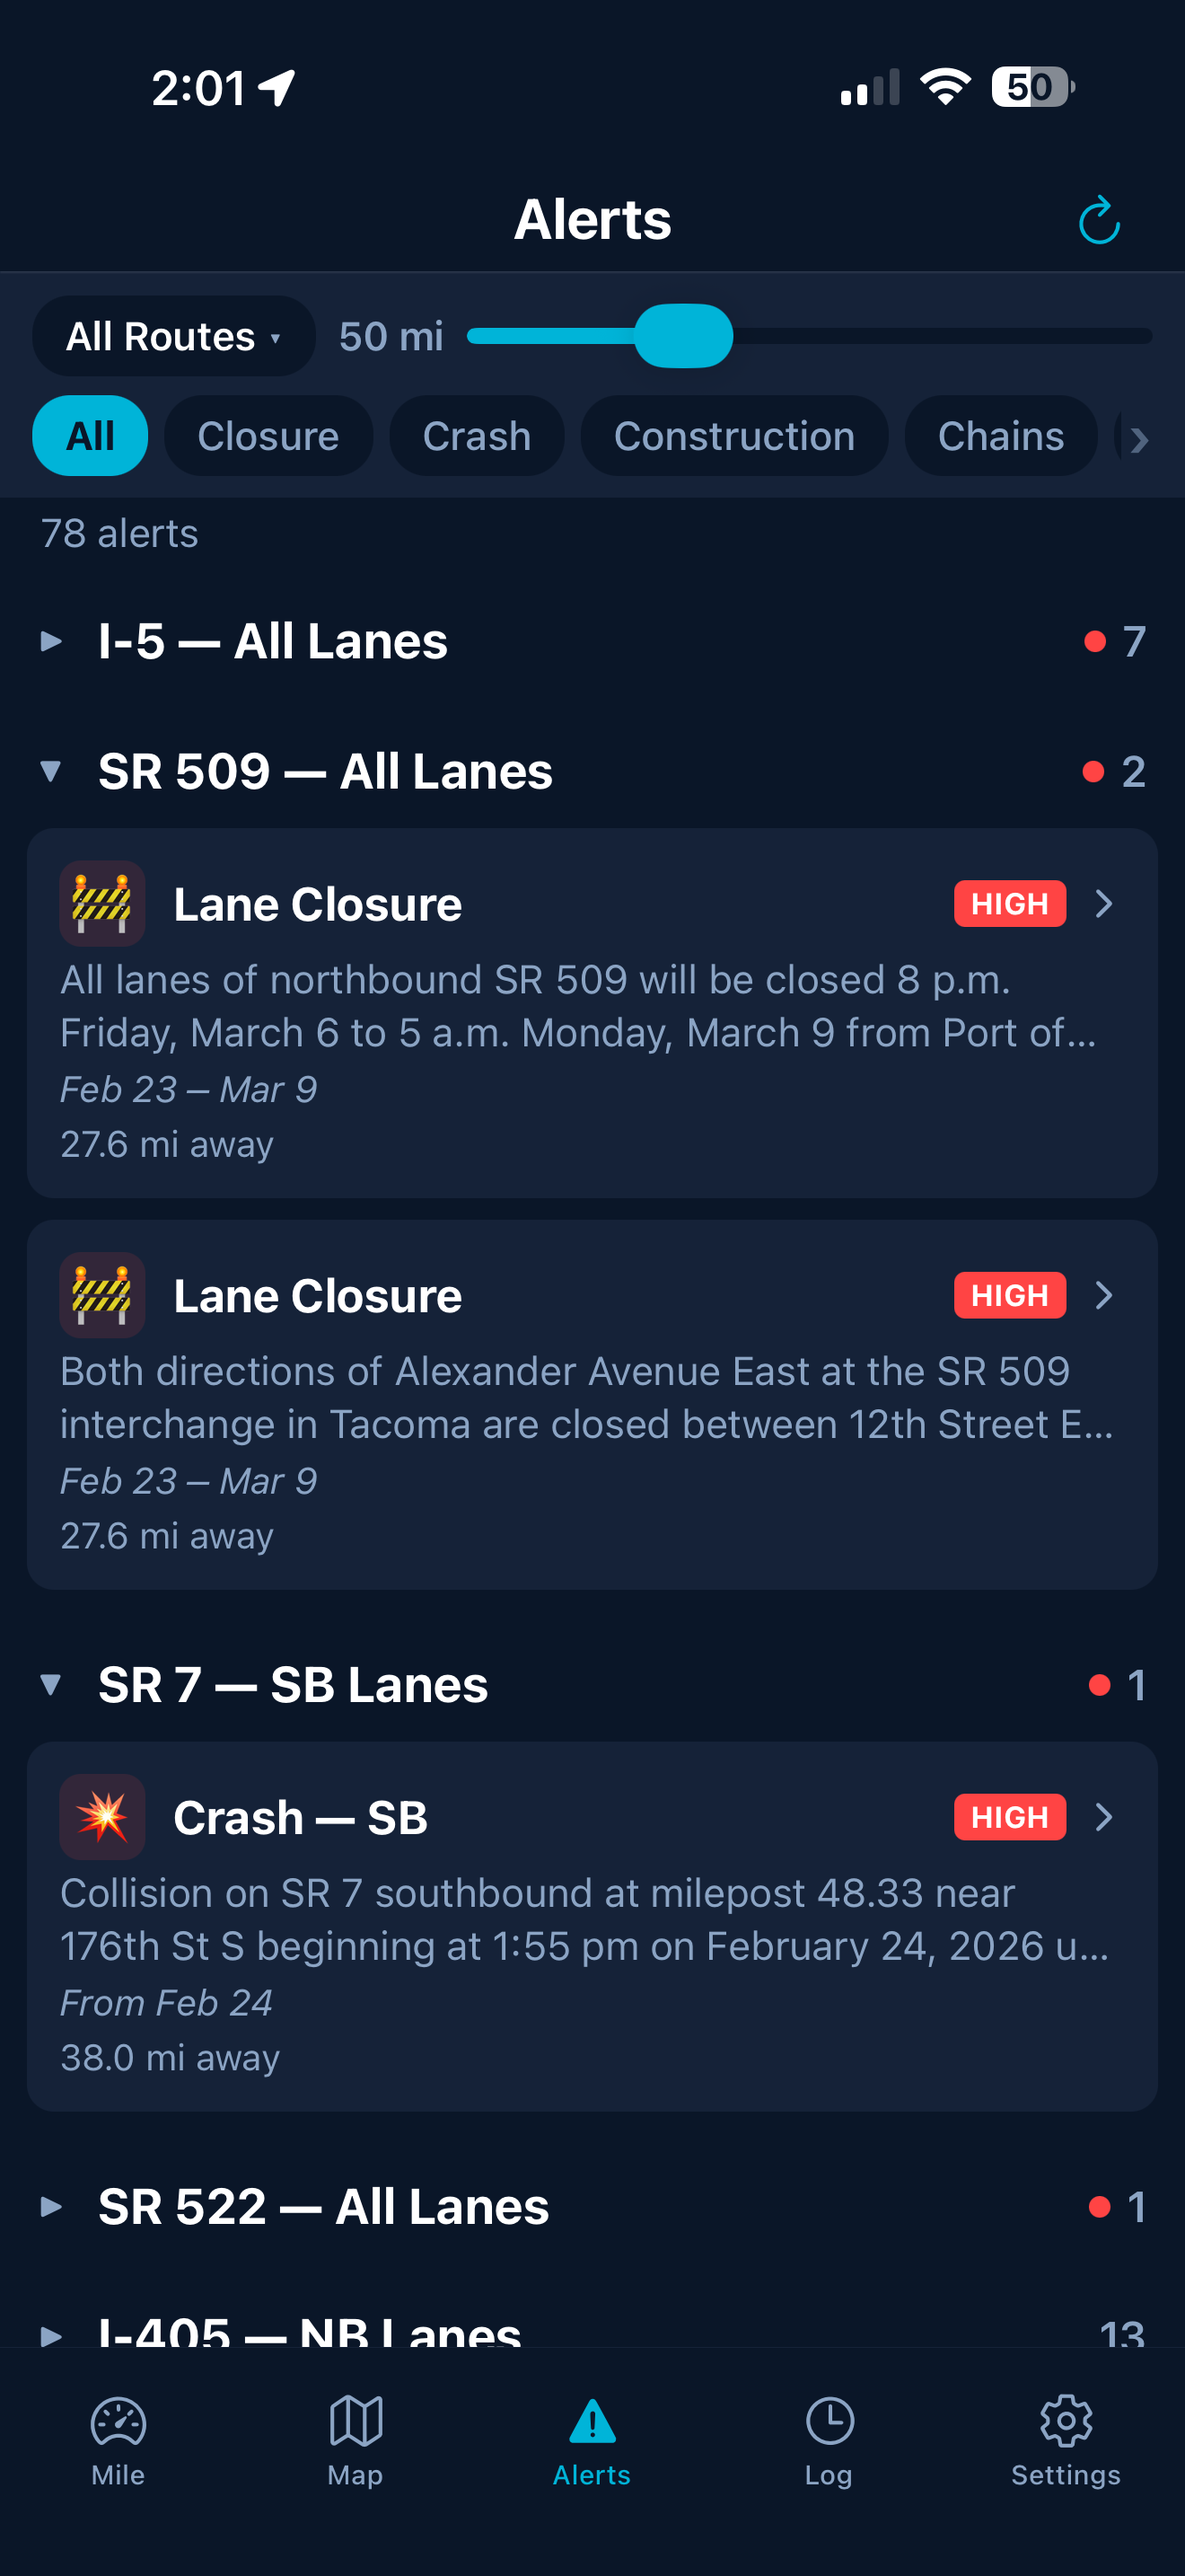
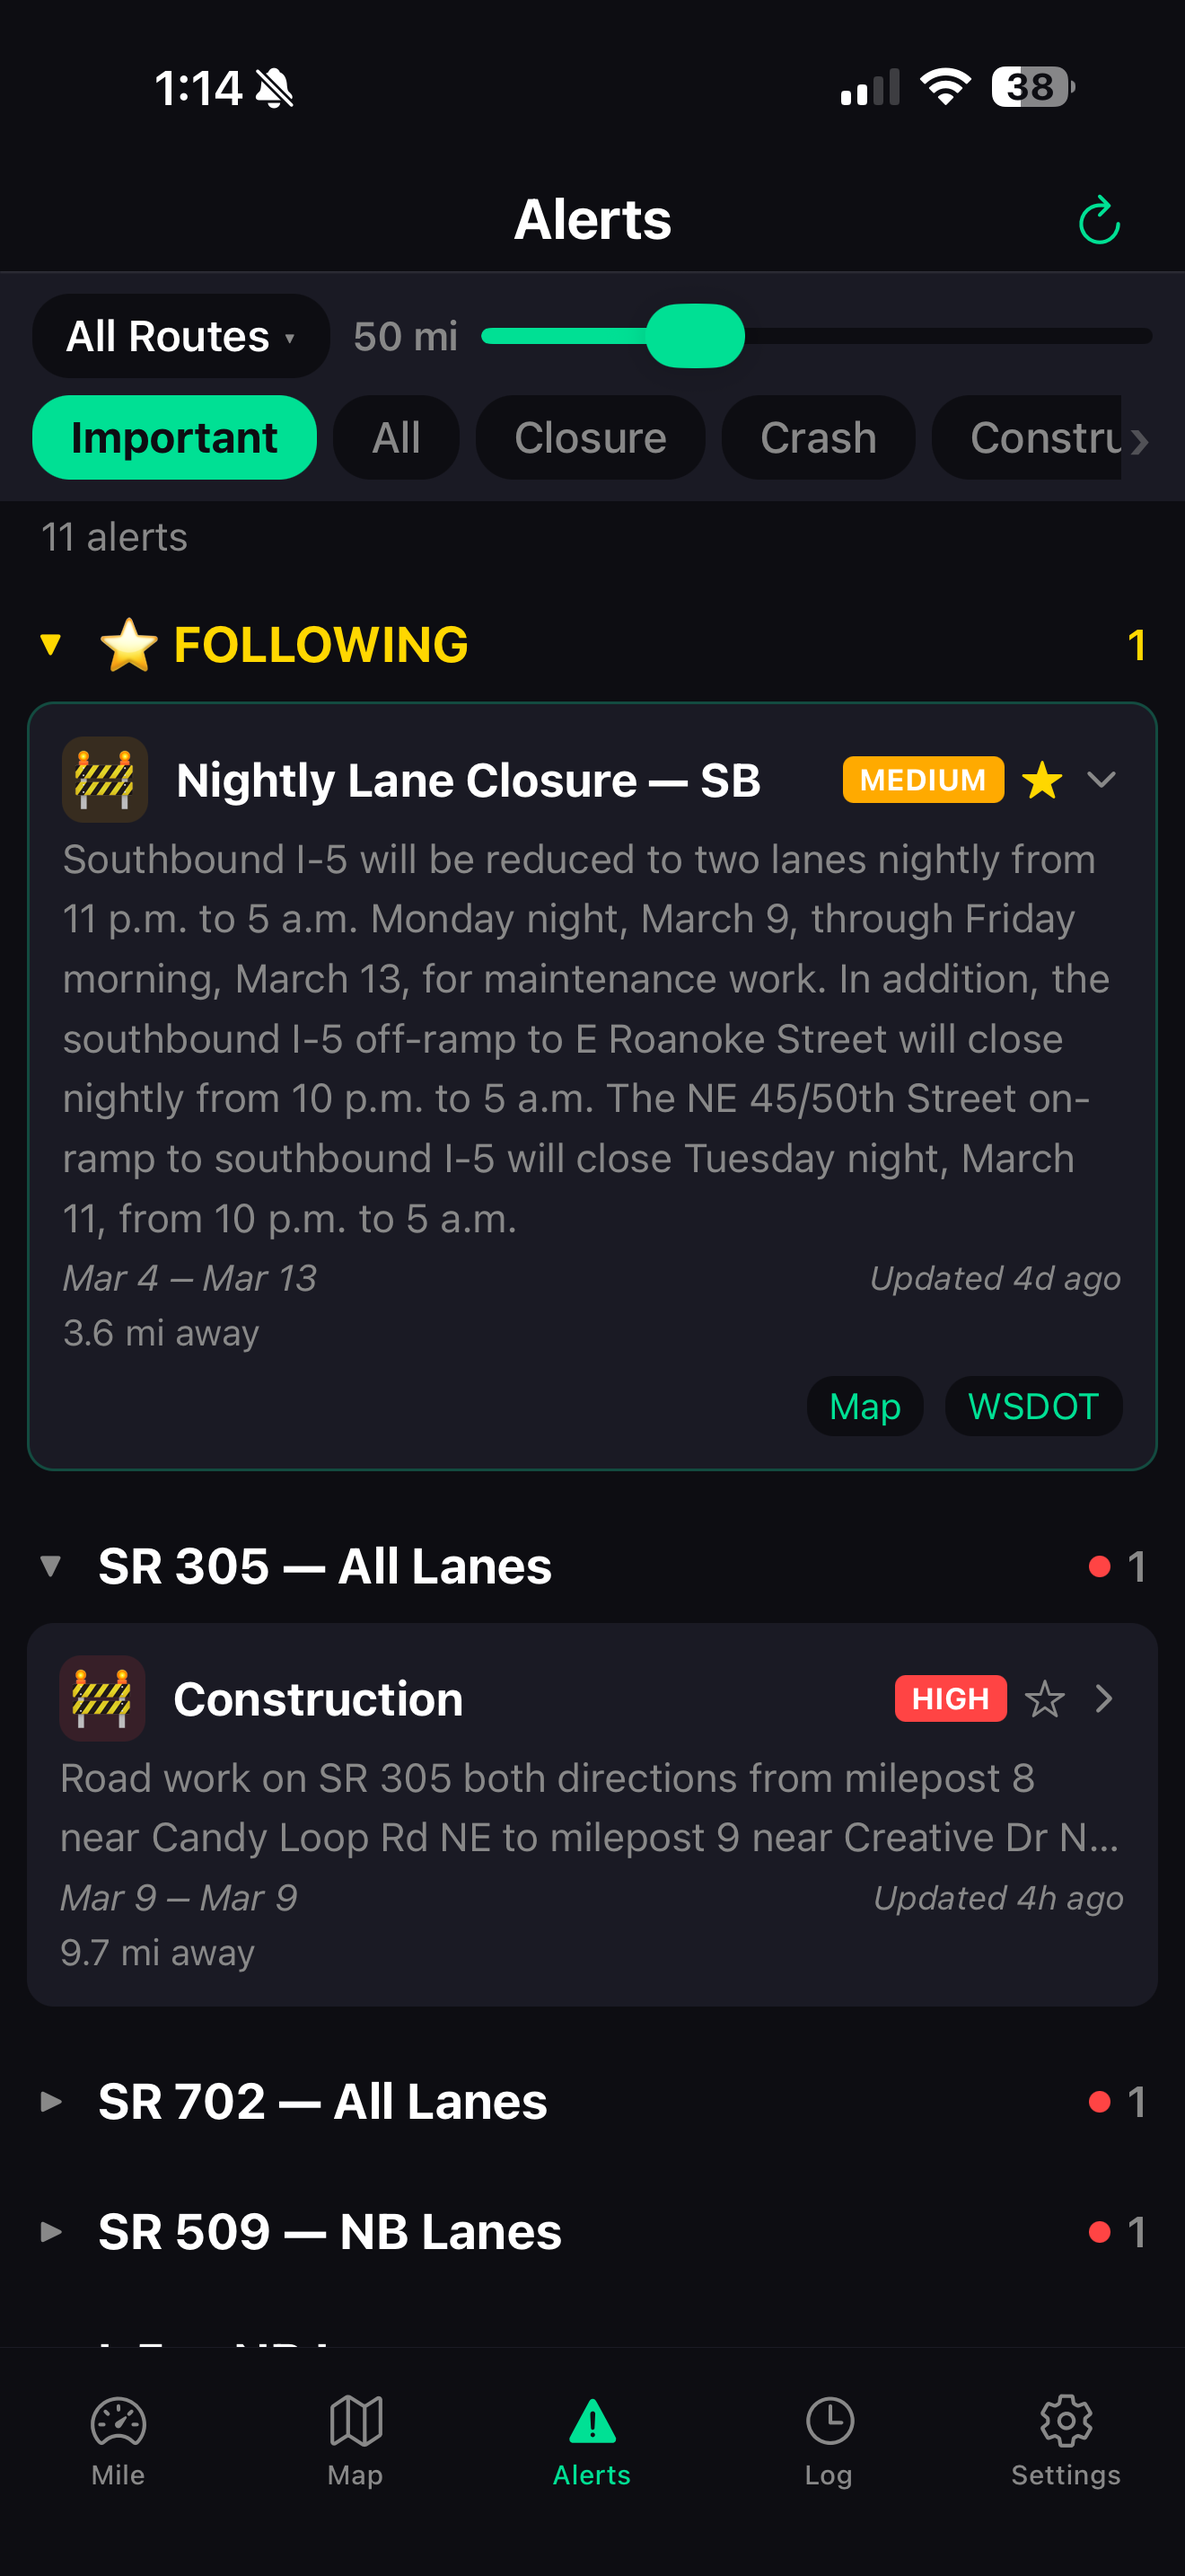
Add screenshot showcase section with map and alerts images
- New "See It In Action" section between Features and States
  showing all 3 screens (Mile, Map, Alerts) as phone mockups
- Updated hero: map in front, mile tab behind (more eye-catching)
- Replaced old screenshots with fresh ones showing current app UI
- Added hover animations and mobile responsive grid

diff --git a/style.css b/style.css
@@ -257,12 +257,19 @@ img {
   box-shadow: 0 16px 48px rgba(0, 0, 0, 0.5);
   border: 2px solid var(--border);
   transition: transform 0.3s ease;
+}
+
+.phone-frame:hover {
+  transform: translateY(-6px);
+}
+
+.phone-frame-front {
   z-index: 2;
   left: 40px;
   top: 20px;
 }
 
-.phone-frame:hover {
+.phone-frame-front:hover {
   transform: translateY(-6px);
 }
 
@@ -271,7 +278,7 @@ img {
   left: 0;
   top: 0;
   transform: rotate(-4deg);
-  opacity: 0.85;
+  opacity: 0.9;
 }
 
 .phone-frame-back:hover {
@@ -331,6 +338,90 @@ img {
   font-size: 13px;
   color: var(--text-secondary);
   line-height: 1.5;
+}
+
+/* ===== Screenshots Showcase ===== */
+.screenshots {
+  max-width: var(--max-width);
+  margin: 0 auto;
+  padding: 80px 24px;
+  text-align: center;
+}
+
+.screenshots h2 {
+  font-size: 36px;
+  font-weight: 700;
+  margin-bottom: 8px;
+  letter-spacing: -1px;
+}
+
+.screenshots-subtitle {
+  color: var(--text-secondary);
+  font-size: 16px;
+  margin-bottom: 48px;
+}
+
+.screenshots-grid {
+  display: grid;
+  grid-template-columns: repeat(3, 1fr);
+  gap: 32px;
+  max-width: 900px;
+  margin: 0 auto;
+}
+
+.screenshot-item {
+  display: flex;
+  flex-direction: column;
+  align-items: center;
+}
+
+.screenshot-phone {
+  width: 220px;
+  border-radius: 24px;
+  overflow: hidden;
+  box-shadow: 0 16px 48px rgba(0, 0, 0, 0.5);
+  border: 2px solid var(--border);
+  transition: transform 0.3s ease, box-shadow 0.3s ease;
+  margin-bottom: 20px;
+}
+
+.screenshot-phone:hover {
+  transform: translateY(-8px);
+  box-shadow: 0 24px 64px rgba(0, 0, 0, 0.6);
+}
+
+.screenshot-img {
+  width: 100%;
+  display: block;
+}
+
+.screenshot-label {
+  font-size: 18px;
+  font-weight: 700;
+  margin-bottom: 6px;
+  color: var(--text);
+}
+
+.screenshot-desc {
+  font-size: 13px;
+  color: var(--text-secondary);
+  line-height: 1.5;
+  max-width: 240px;
+}
+
+@media (max-width: 768px) {
+  .screenshots-grid {
+    grid-template-columns: 1fr;
+    gap: 40px;
+  }
+
+  .screenshot-phone {
+    width: 200px;
+  }
+
+  .screenshots h2 {
+    font-size: 28px;
+  }
 }
 
 /* ===== States ===== */
@@ -802,6 +893,9 @@ td.soon {
 
   .phone-frame {
     width: 190px;
+  }
+
+  .phone-frame-front {
     left: 30px;
     top: 20px;
   }
@@ -851,6 +945,9 @@ td.soon {
 
   .phone-frame {
     width: 160px;
+  }
+
+  .phone-frame-front {
     left: 25px;
     top: 20px;
   }

diff --git a/index.html b/index.html
@@ -62,10 +62,10 @@
       </div>
     </div>
     <div class="hero-screenshots">
-      <div class="phone-frame">
+      <div class="phone-frame phone-frame-back">
         <img src="images/screenshot-mile.png" alt="MileCheck mile marker screen" class="phone-screen">
       </div>
-      <div class="phone-frame phone-frame-back">
+      <div class="phone-frame phone-frame-front">
         <img src="images/screenshot-map.png" alt="MileCheck map screen" class="phone-screen">
       </div>
     </div>
@@ -104,6 +104,35 @@
         <div class="feature-icon">&#x1F3A8;</div>
         <h3>6 Color Themes</h3>
         <p>Choose from Road, Snow, Berry, Sunset, Slate, or Light mode. Make it yours.</p>
+      </div>
+    </div>
+  </section>
+
+  <!-- Screenshots -->
+  <section id="screenshots" class="screenshots">
+    <h2>See It In Action</h2>
+    <p class="screenshots-subtitle">Mile markers, interactive map, and live road alerts — all in one app.</p>
+    <div class="screenshots-grid">
+      <div class="screenshot-item">
+        <div class="screenshot-phone">
+          <img src="images/screenshot-mile.png" alt="MileCheck mile marker screen showing SR 99 milepost 34.5" class="screenshot-img">
+        </div>
+        <h3 class="screenshot-label">Mile Markers</h3>
+        <p class="screenshot-desc">Your exact position with decimal precision, speed, weather, and route alerts.</p>
+      </div>
+      <div class="screenshot-item">
+        <div class="screenshot-phone">
+          <img src="images/screenshot-map.png" alt="MileCheck interactive map showing Seattle with milepost markers and alerts" class="screenshot-img">
+        </div>
+        <h3 class="screenshot-label">Interactive Map</h3>
+        <p class="screenshot-desc">Milepost markers, color-coded alerts, bridge status, and tap-to-measure.</p>
+      </div>
+      <div class="screenshot-item">
+        <div class="screenshot-phone">
+          <img src="images/screenshot-alerts.png" alt="MileCheck alerts screen showing road closures and construction" class="screenshot-img">
+        </div>
+        <h3 class="screenshot-label">Live Alerts</h3>
+        <p class="screenshot-desc">Closures, crashes, construction, and weather filtered by distance and type.</p>
       </div>
     </div>
   </section>
